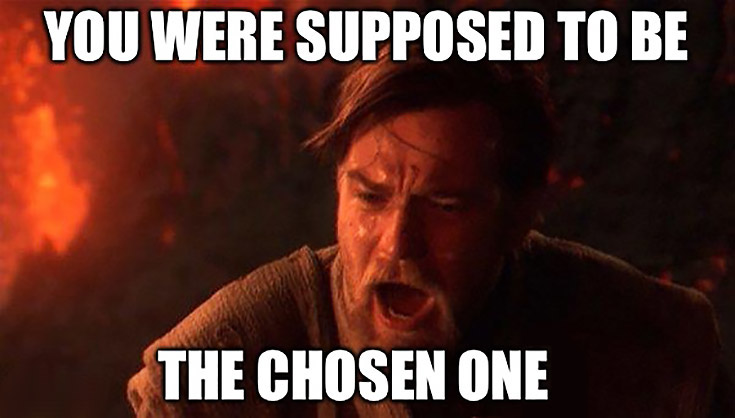
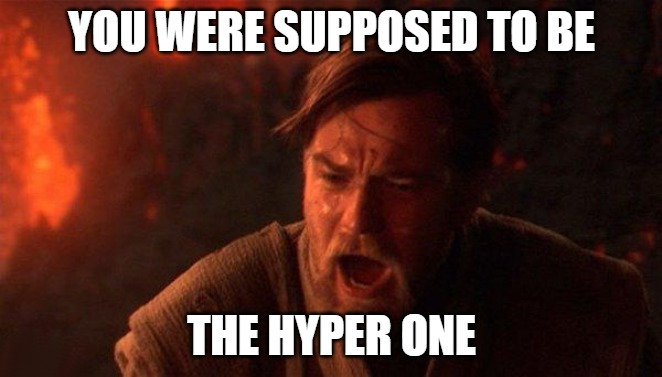
meme fix

Changed region(s): [[0.0302, 0.0, 0.9366, 0.1751], [0.2115, 0.817, 0.7553, 0.992]]

diff --git a/pages/quiz.vue b/pages/quiz.vue
@@ -46,13 +46,9 @@
         <div class="result-wrap">
           <div class="wrap">
             <template v-if="success">
-              <h5>YES, YOU ARE</h5>
-              <h2>HYPER FOUNDER!</h2>
-              <img src="/choice1.jpg" alt="" />
+              <img src="/choice1.jpg" alt="" class="height" />
             </template>
             <template v-else>
-              <h5>You were supposed to be</h5>
-              <h2>the HYPER one!</h2>
               <img src="/choice2.jpg" alt="" />
             </template>
             <div class="clearfix"></div>

diff --git a/assets/css/pages/home.scss b/assets/css/pages/home.scss
@@ -310,9 +310,15 @@
         }
       }
       img {
-        height: 250px;
+        height: 350px;
         @media screen and (max-width: 991px) {
-          height: 130px;
+          height: 200px;
+        }
+        &.height {
+          height: 350px;
+          @media screen and (max-width: 991px) {
+            height: 210px;
+          }
         }
       }
       p {
